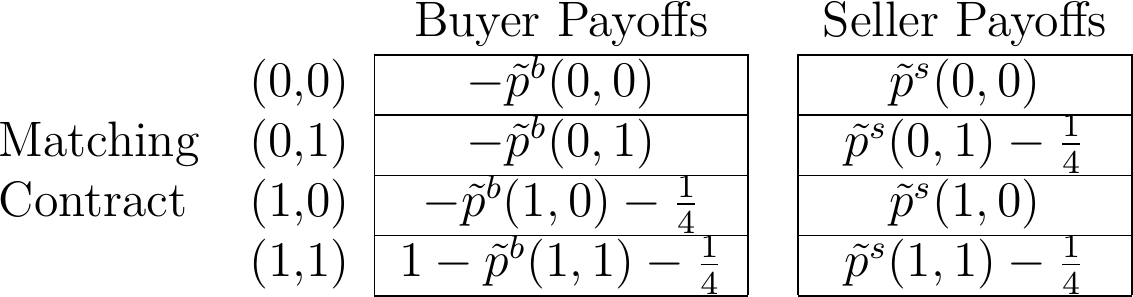
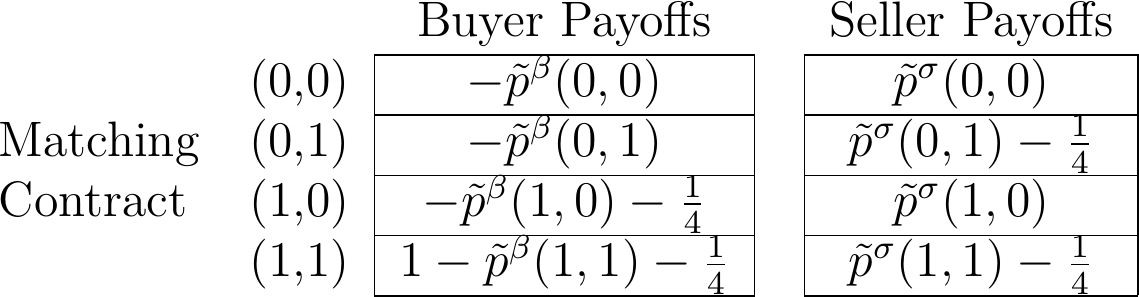
ices images

diff --git a/docs/slides/ICES2019.html b/docs/slides/ICES2019.html
@@ -300,16 +300,16 @@ Efficient Equilibrium Payoffs
 
 
 ---
-background-image: url(https://briancalbrecht.github.io/docs/slides/images/jmp/tikz_T.png)
-background-size:contain
-
----
 background-image: url(https://briancalbrecht.github.io/docs/slides/images/jmp/tikz_U.png)
 background-size:contain
 
+---
+background-image: url(https://briancalbrecht.github.io/docs/slides/images/jmp/tikz_V.png)
+background-size:contain
+
 
 ---
-background-image: url(https://briancalbrecht.github.io/docs/slides/images/jmp/tikz_W.png)
+background-image: url(https://briancalbrecht.github.io/docs/slides/images/jmp/tikz_X.png)
 background-size:contain
 
 ---

diff --git a/docs/slides/tikz_charts/jmp.tex b/docs/slides/tikz_charts/jmp.tex
@@ -487,10 +487,10 @@ $ $
 \begin{table}[]
 	\begin{tabular}{lcccc}
 		&                            & Buyer Payoffs         &                       & Seller Payoffs        \\ \cline{3-3} \cline{5-5} 
-		& \multicolumn{1}{c|}{(0,0)} & \multicolumn{1}{c|}{$ -\tilde{p}^b(0,0)$} & \multicolumn{1}{c|}{} & \multicolumn{1}{c|}{$ \tilde{p}^s(0,0)$} \\ \cline{3-3} \cline{5-5} 
-		Matching & \multicolumn{1}{c|}{(0,1)} & \multicolumn{1}{c|}{$ -\tilde{p}^b(0,1)$} & \multicolumn{1}{c|}{} & \multicolumn{1}{c|}{$ \tilde{p}^s(0,1) -\frac{1}{4}$}  \\ \cline{3-3} \cline{5-5} 
-		Contract& \multicolumn{1}{c|}{(1,0)} & \multicolumn{1}{c|}{$ -\tilde{p}^b(1,0) - \frac{1}{4}$} & \multicolumn{1}{c|}{} & \multicolumn{1}{c|}{$ \tilde{p}^s(1,0)$} \\ \cline{3-3} \cline{5-5} 
-		& \multicolumn{1}{c|}{(1,1)} & \multicolumn{1}{c|}{$ 1- \tilde{p}^b(1,1) - \frac{1}{4}$} & \multicolumn{1}{c|}{} & \multicolumn{1}{c|}{$ \tilde{p}^s(1,1)- \frac{1}{4}$} \\ \cline{3-3} \cline{5-5} 
+		& \multicolumn{1}{c|}{(0,0)} & \multicolumn{1}{c|}{$ -\tilde{p}^\beta(0,0)$} & \multicolumn{1}{c|}{} & \multicolumn{1}{c|}{$ \tilde{p}^\sigma(0,0)$} \\ \cline{3-3} \cline{5-5} 
+		Matching & \multicolumn{1}{c|}{(0,1)} & \multicolumn{1}{c|}{$ -\tilde{p}^\beta(0,1)$} & \multicolumn{1}{c|}{} & \multicolumn{1}{c|}{$ \tilde{p}^\sigma(0,1) -\frac{1}{4}$}  \\ \cline{3-3} \cline{5-5} 
+		Contract& \multicolumn{1}{c|}{(1,0)} & \multicolumn{1}{c|}{$ -\tilde{p}^\beta(1,0) - \frac{1}{4}$} & \multicolumn{1}{c|}{} & \multicolumn{1}{c|}{$ \tilde{p}^\sigma(1,0)$} \\ \cline{3-3} \cline{5-5} 
+		& \multicolumn{1}{c|}{(1,1)} & \multicolumn{1}{c|}{$ 1- \tilde{p}^\beta(1,1) - \frac{1}{4}$} & \multicolumn{1}{c|}{} & \multicolumn{1}{c|}{$ \tilde{p}^\sigma(1,1)- \frac{1}{4}$} \\ \cline{3-3} \cline{5-5} 
 	\end{tabular}
 \end{table}
 
@@ -533,9 +533,9 @@ $ $
 \begin{table}[]
 	\begin{tabular}{lcccc}
 		&                            & Buyer Payoffs         &                       & Seller Payoffs        \\ \cline{3-3} \cline{5-5} 
-		& \multicolumn{1}{c|}{(0,0)} & \multicolumn{1}{c|}{$-\tilde{p}^b(0,0)= -0$} & \multicolumn{1}{c|}{} & \multicolumn{1}{c|}{$\tilde{p}^s(0,0)=  0$} \\ \cline{3-3} \cline{5-5} 
-		Matching & \multicolumn{1}{c|}{(0,1)} & \multicolumn{1}{c|}{$-\tilde{p}^b(0,1)= -0$} & \multicolumn{1}{c|}{} & \multicolumn{1}{c|}{$\tilde{p}^s(0,1) -\frac{1}{4}= 0 -\frac{1}{4}$}  \\ \cline{3-3} \cline{5-5} 
-		Contract& \multicolumn{1}{c|}{(1,0)} & \multicolumn{1}{c|}{$ -\tilde{p}^b(1,0) - \frac{1}{4}= - 0 - \frac{1}{4}$} & \multicolumn{1}{c|}{} & \multicolumn{1}{c|}{$\tilde{p}^s(1,0)=  0$} \\ \cline{3-3} \cline{5-5} 
+		& \multicolumn{1}{c|}{(0,0)} & \multicolumn{1}{c|}{$-\tilde{p}^\beta(0,0)= -0$} & \multicolumn{1}{c|}{} & \multicolumn{1}{c|}{$\tilde{p}^\sigma(0,0)=  0$} \\ \cline{3-3} \cline{5-5} 
+		Matching & \multicolumn{1}{c|}{(0,1)} & \multicolumn{1}{c|}{$-\tilde{p}^\beta(0,1)= -0$} & \multicolumn{1}{c|}{} & \multicolumn{1}{c|}{$\tilde{p}^\sigma(0,1) -\frac{1}{4}= 0 -\frac{1}{4}$}  \\ \cline{3-3} \cline{5-5} 
+		Contract& \multicolumn{1}{c|}{(1,0)} & \multicolumn{1}{c|}{$ -\tilde{p}^\beta(1,0) - \frac{1}{4}= - 0 - \frac{1}{4}$} & \multicolumn{1}{c|}{} & \multicolumn{1}{c|}{$\tilde{p}^\sigma(1,0)=  0$} \\ \cline{3-3} \cline{5-5} 
 		& \multicolumn{1}{c|}{\textcolor{red}{(1,1)}} & \multicolumn{1}{c|}{$  1 -p(1,1) - \frac{1}{4} = 1 - \frac{1}{2}- \frac{1}{4}$} & \multicolumn{1}{c|}{} & \multicolumn{1}{c|}{$ p(1,1) - \frac{1}{4}= \frac{1}{2}- \frac{1}{4}$} \\ \cline{3-3} \cline{5-5} 
 	\end{tabular}
 \end{table}
@@ -550,9 +550,9 @@ $ $
 	\begin{tabular}{lcccc}
 		&                            & Buyer Payoffs         &                       & Seller Payoffs        \\ \cline{3-3} \cline{5-5} 
 		& \multicolumn{1}{c|}{(0,0)} & \multicolumn{1}{c|}{$-p(0,0)= -0$} & \multicolumn{1}{c|}{} & \multicolumn{1}{c|}{$p(0,0)=  0$} \\ \cline{3-3} \cline{5-5} 
-		Matching & \multicolumn{1}{c|}{(0,1)} & \multicolumn{1}{c|}{$-\tilde{p}^b(0,1)= -0$} & \multicolumn{1}{c|}{} & \multicolumn{1}{c|}{$\tilde{p}^s(0,1) -\frac{1}{4}= 0 -\frac{1}{4}$}  \\ \cline{3-3} \cline{5-5} 
-		Contract& \multicolumn{1}{c|}{(1,0)} & \multicolumn{1}{c|}{$ -\tilde{p}^b(1,0) - \frac{1}{4}= - 0 - \frac{1}{4}$} & \multicolumn{1}{c|}{} & \multicolumn{1}{c|}{$\tilde{p}^s(1,0)=  0$} \\ \cline{3-3} \cline{5-5}  
-		& \multicolumn{1}{c|}{(1,1)} & \multicolumn{1}{c|}{$1 -\textcolor{red}{\tilde{p}^b(1,1)} - \frac{1}{4}= 1 - \textcolor{red}{1} - \frac{1}{4}$} & \multicolumn{1}{c|}{} & \multicolumn{1}{c|}{$ \textcolor{red}{\tilde{p}^s(1,1)} - \frac{1}{4}=\textcolor{red}{0} - \frac{1}{4}$} \\ \cline{3-3} \cline{5-5} 
+		Matching & \multicolumn{1}{c|}{(0,1)} & \multicolumn{1}{c|}{$-\tilde{p}^\beta(0,1)= -0$} & \multicolumn{1}{c|}{} & \multicolumn{1}{c|}{$\tilde{p}^\sigma(0,1) -\frac{1}{4}= 0 -\frac{1}{4}$}  \\ \cline{3-3} \cline{5-5} 
+		Contract& \multicolumn{1}{c|}{(1,0)} & \multicolumn{1}{c|}{$ -\tilde{p}^\beta(1,0) - \frac{1}{4}= - 0 - \frac{1}{4}$} & \multicolumn{1}{c|}{} & \multicolumn{1}{c|}{$\tilde{p}^\sigma(1,0)=  0$} \\ \cline{3-3} \cline{5-5}  
+		& \multicolumn{1}{c|}{(1,1)} & \multicolumn{1}{c|}{$1 -\textcolor{red}{\tilde{p}^\beta(1,1)} - \frac{1}{4}= 1 - \textcolor{red}{1} - \frac{1}{4}$} & \multicolumn{1}{c|}{} & \multicolumn{1}{c|}{$ \textcolor{red}{\tilde{p}^\sigma(1,1)} - \frac{1}{4}=\textcolor{red}{0} - \frac{1}{4}$} \\ \cline{3-3} \cline{5-5} 
 	\end{tabular}
 \end{table}
 
